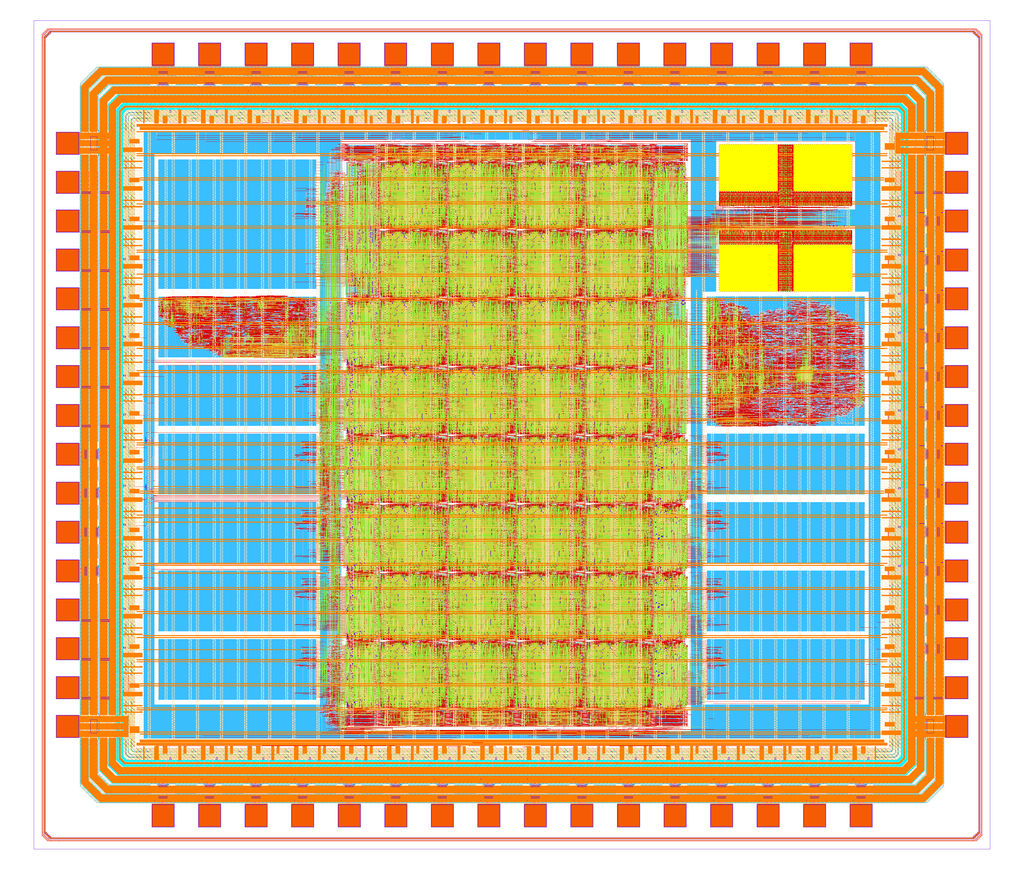
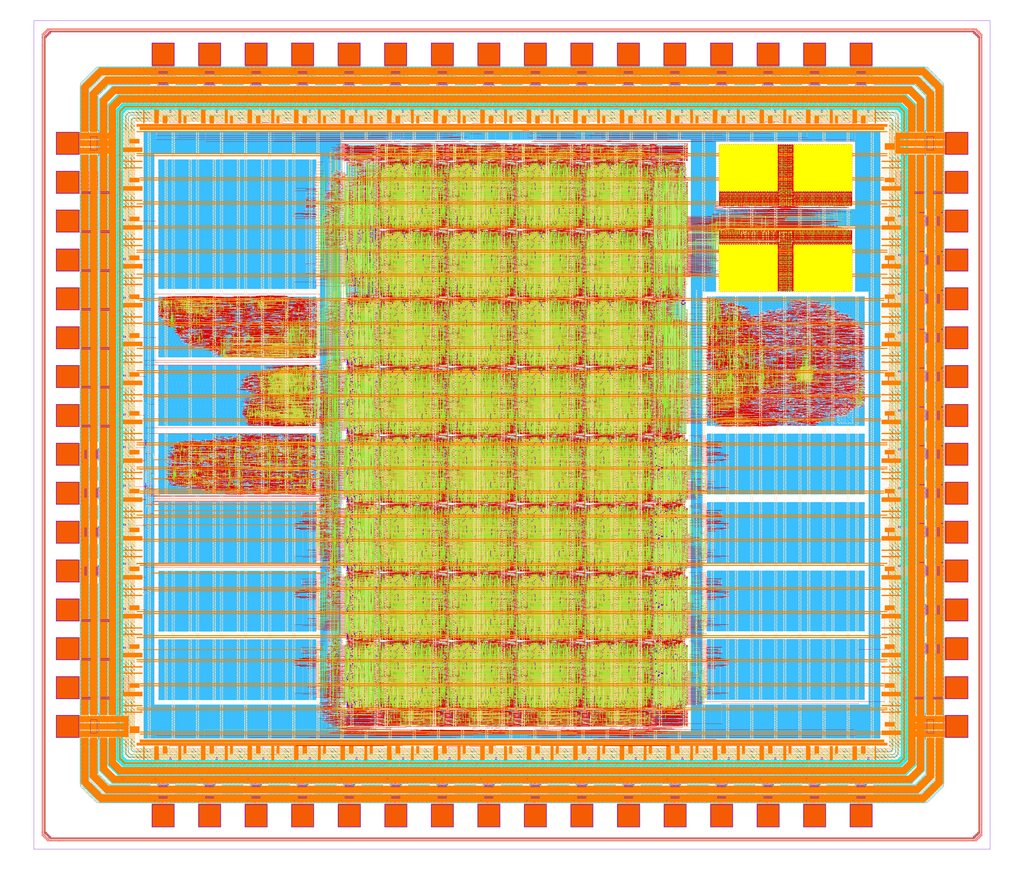
Integrate SAP3 and Sorter

diff --git a/ip/fabric/rtl/io_mappings.py b/ip/fabric/rtl/io_mappings.py
@@ -10,8 +10,8 @@ tt_projects = {
     # left side
     'X0Y2': ('heichips25_example_large', 'heichips25_example_large_0'),
     'X0Y3': ('heichips25_CORDIC', 'heichips25_example_small_0'),
-    'X0Y4': ('heichips25_example_small', 'heichips25_example_small_1'),
-    'X0Y5': ('heichips25_example_small', 'heichips25_example_small_2'),
+    'X0Y4': ('heichips25_sap3', 'heichips25_example_small_1'),
+    'X0Y5': ('heichips25_top_sorter', 'heichips25_example_small_2'),
     'X0Y6': ('heichips25_example_small', 'heichips25_example_small_3'),
     'X0Y7': ('heichips25_example_small', 'heichips25_example_small_4'),
     'X0Y8': ('heichips25_example_small', 'heichips25_example_small_5'),
